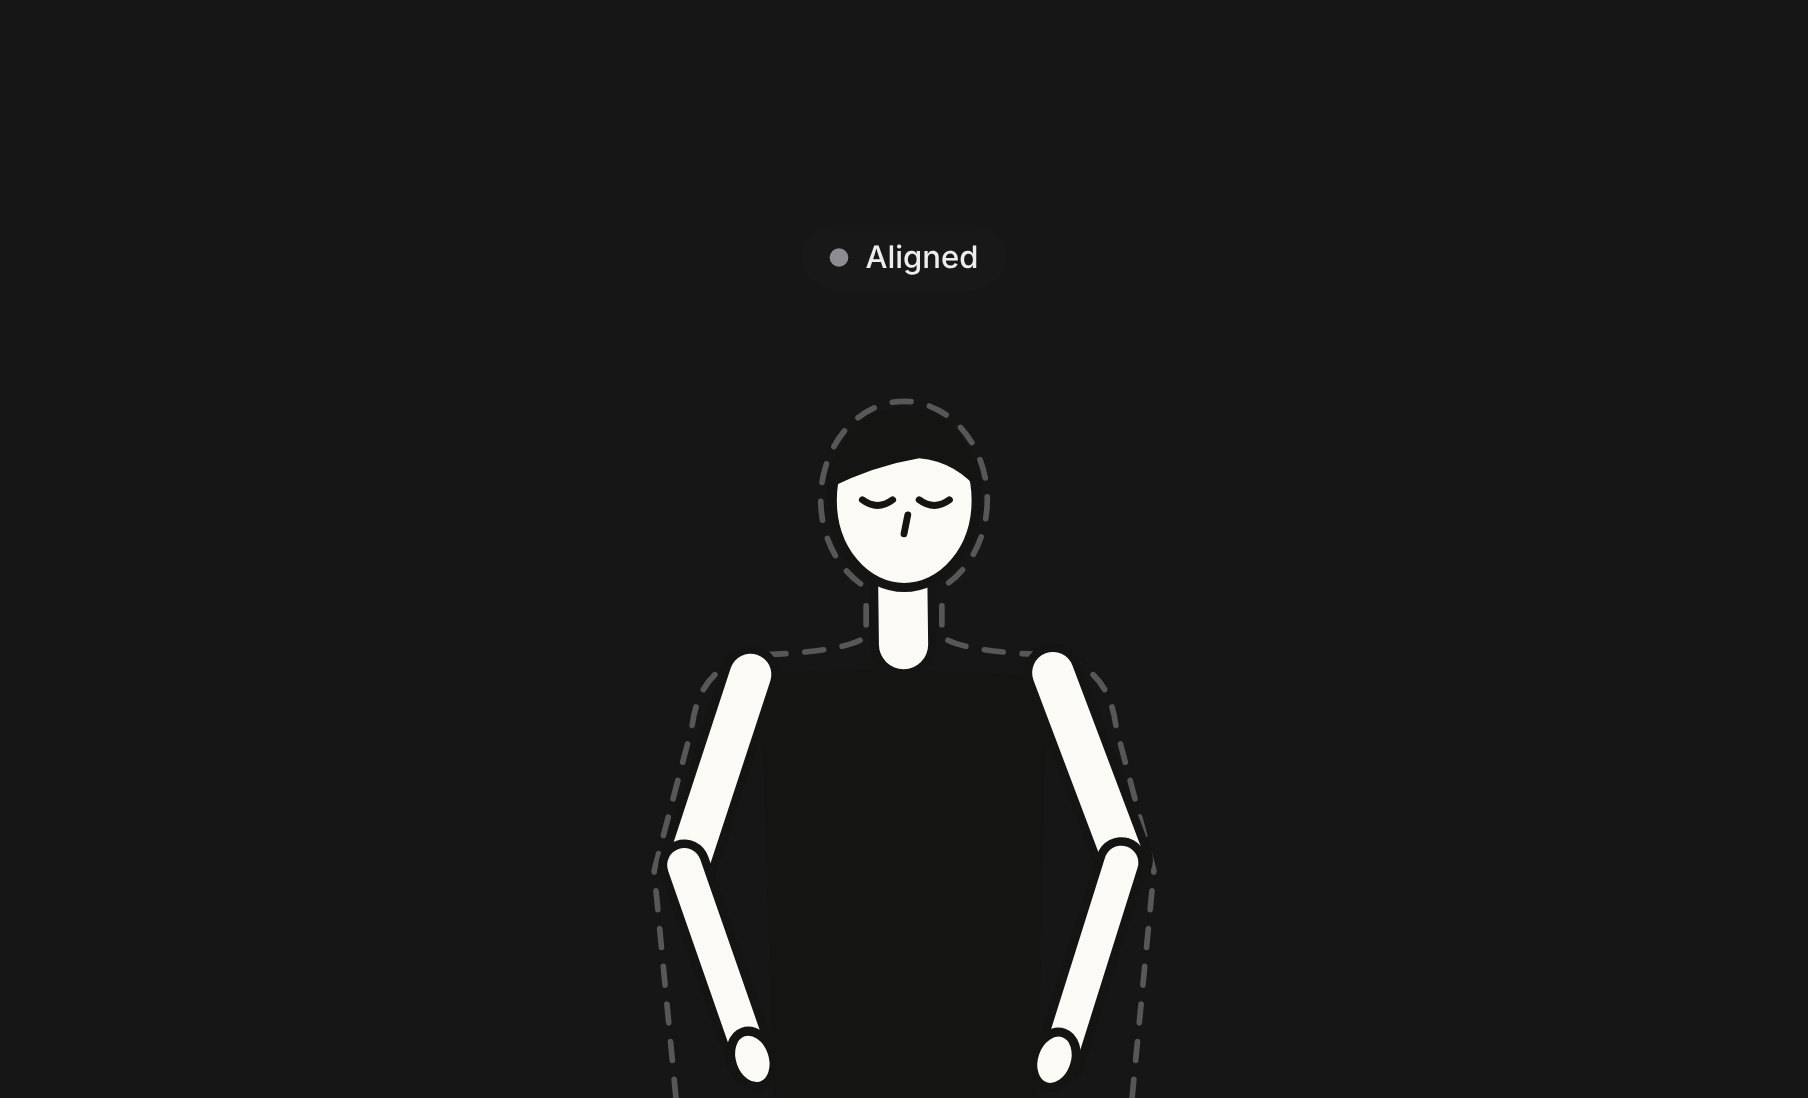
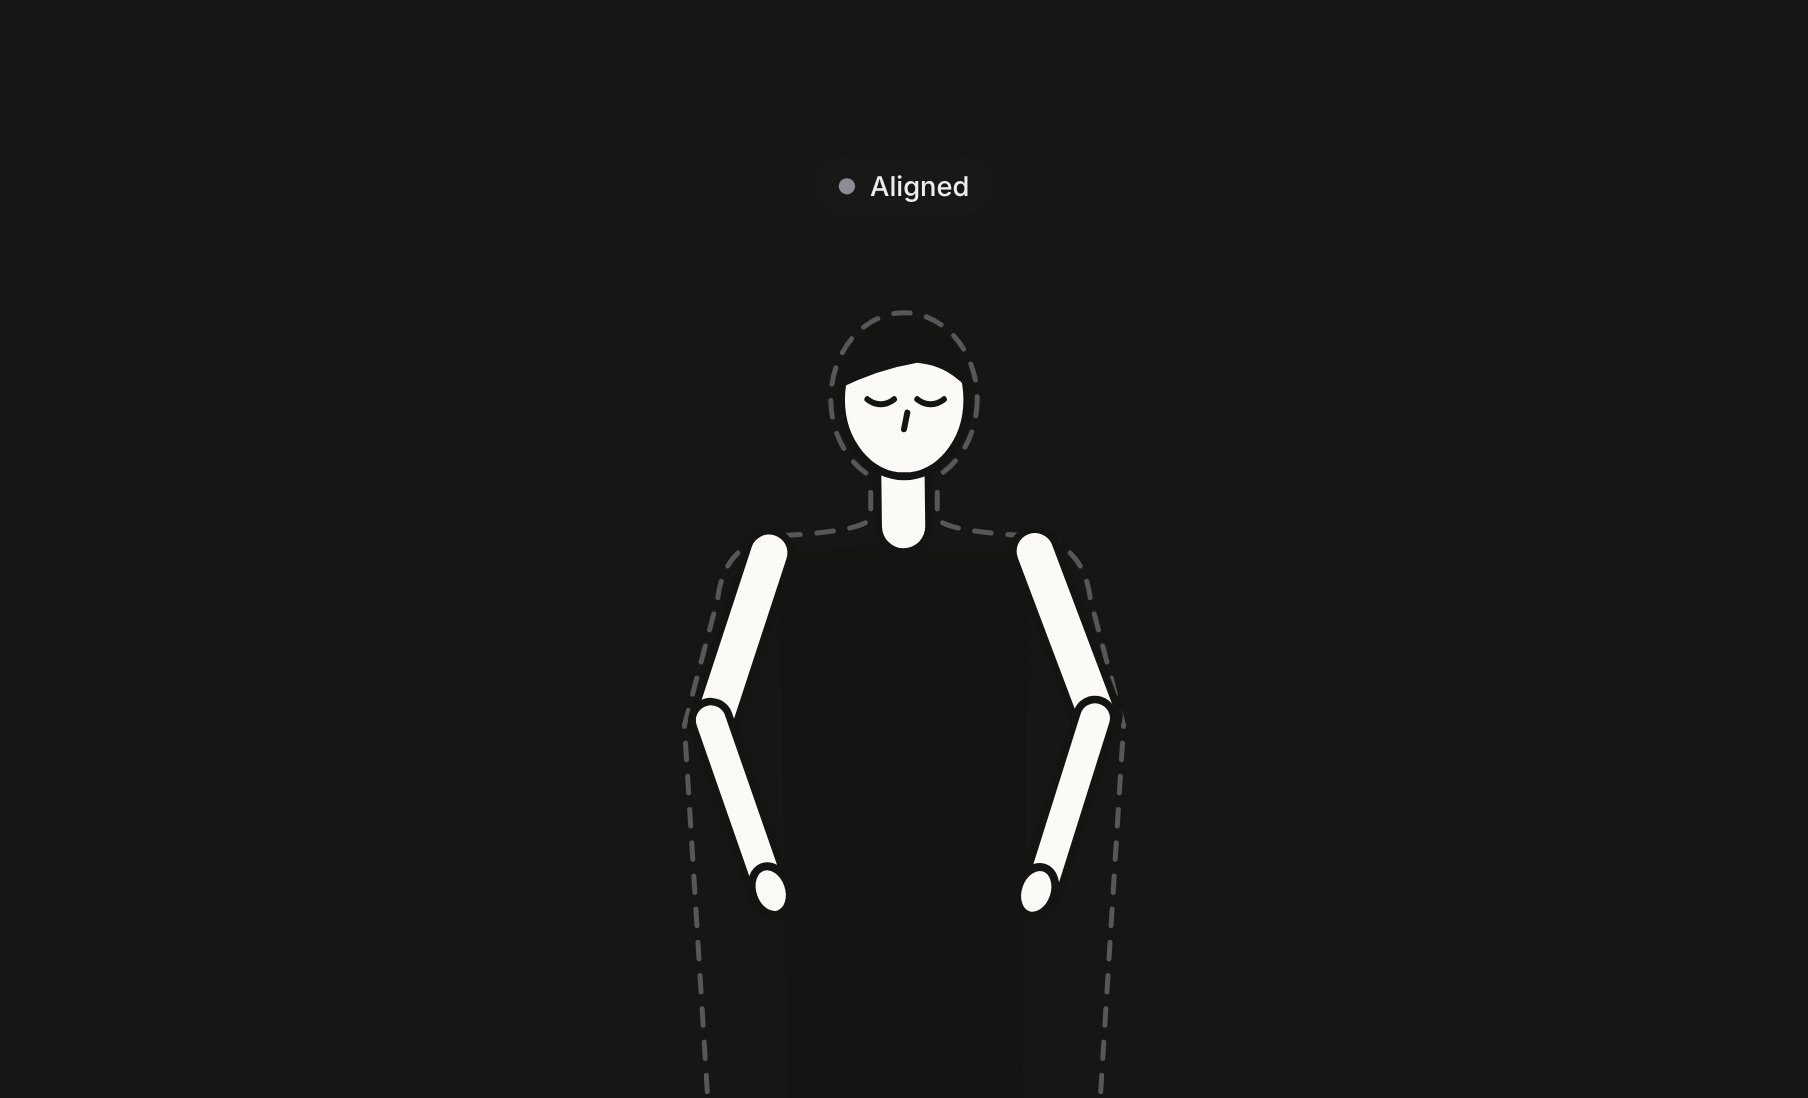
Poise thumbnail: raise the figure so the hands stay in frame
Claude-Session: https://claude.ai/code/session_01UHSuVgL78FHF3ZiXhWhDac

diff --git a/poise-motion.html b/poise-motion.html
@@ -52,7 +52,7 @@ function drawFigure(ctx, P, { j = () => 0, ink, paper }) {
   ctx.save(); ctx.translate(0, -10); ctx.rotate(P.bend || 0); ctx.translate(0, 10);
   // tee
   ctx.fillStyle = ink;
-  poly([[SL[0] - 2, SL[1] + 1], [NECK[0] - 11, NECK[1] + 7], [NECK[0] + 11, NECK[1] + 7], [SR[0] + 2, SR[1] + 1], [37 * (1 - .07 * tb), SR[1] + 22], [34, 40], [-34, 40], [-37 * (1 - .07 * tb), SL[1] + 22]]);
+  poly([[SL[0] - 2, SL[1] + 1], [NECK[0] - 11, NECK[1] + 7], [NECK[0] + 11, NECK[1] + 7], [SR[0] + 2, SR[1] + 1], [37 * (1 - .07 * tb), SR[1] + 22], [34, 160], [-34, 160], [-37 * (1 - .07 * tb), SL[1] + 22]]);
   // head
   const tilt = P.head || 0, neckLen = (38 - fwd * 14) * (1 - .3 * tb), hs = (1 + fwd * .14) * (1 - .12 * tb);
   const hX = NECK[0] + hx * .65 + Math.sin(tilt) * neckLen, hY = NECK[1] - Math.cos(tilt) * neckLen;
@@ -158,8 +158,8 @@ function frame(now) {
   }
 
   // framing: upper body, cut at the waist by the bottom edge, like the camera view in the app
-  const fitW = 205, fitH = GQ === 'pn' || W / H > 1.6 ? 290 : 236, s = Math.min(W / fitW, H / fitH);
-  const ax = W / 2, ay = H + s * 34;   // figure sits low, leaving room for the chip above
+  const fitW = 205, fitH = GQ === 'pn' || W / H > 1.6 ? 330 : 290, s = Math.min(W / fitW, H / fitH);
+  const ax = W / 2, ay = H - s * 18;   // low enough to leave room for the chip, high enough that the hands never get cut off
   const ink = '#141412', paper = '#FBFAF6';   // the app's ink figure, in both themes
 
   // where you sat when you saved your reference: a faint dashed outline
@@ -168,7 +168,7 @@ function frame(now) {
   ctx.strokeStyle = dark ? 'rgba(237,237,237,.3)' : 'rgba(13,13,13,.26)'; ctx.lineWidth = 1.5; ctx.lineCap = 'round';
   ctx.beginPath(); ctx.ellipse(0, -162, 22, 26, 0, 0, Math.PI * 2); ctx.stroke();
   ctx.beginPath();
-  for (const m of [-1, 1]) { ctx.moveTo(10 * m, -134); ctx.lineTo(10 * m, -126); ctx.quadraticCurveTo(14 * m, -122, 38 * m, -121); ctx.quadraticCurveTo(54 * m, -119, 56 * m, -102); ctx.lineTo(66 * m, -64); ctx.lineTo(56 * m, 40); }
+  for (const m of [-1, 1]) { ctx.moveTo(10 * m, -134); ctx.lineTo(10 * m, -126); ctx.quadraticCurveTo(14 * m, -122, 38 * m, -121); ctx.quadraticCurveTo(54 * m, -119, 56 * m, -102); ctx.lineTo(66 * m, -64); ctx.lineTo(52 * m, 160); }
   ctx.stroke(); ctx.setLineDash([]);
   ctx.restore();
 
